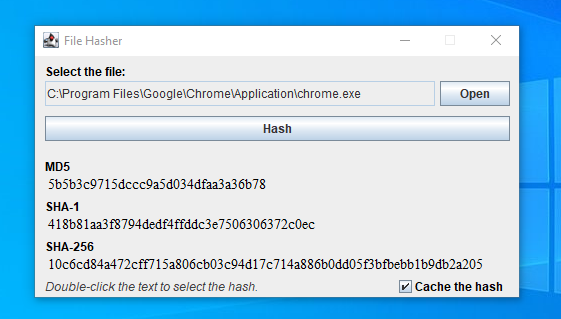
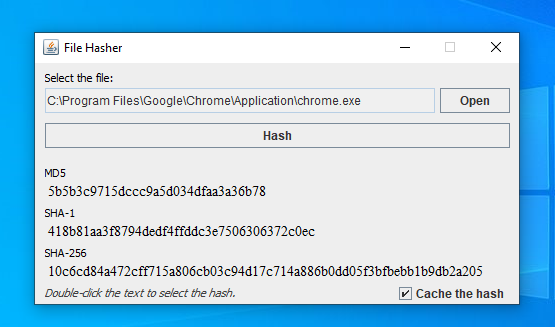
Changed window style to system default

diff --git a/src/Window.java b/src/Window.java
@@ -13,13 +13,15 @@ public class Window {
     private final JTextPane sha256Field = new JTextPane();
     private final JCheckBox cacheCheckBox = new JCheckBox("Cache the hash");
 
-    public Window() {
+    public Window() throws UnsupportedLookAndFeelException, ClassNotFoundException, InstantiationException, IllegalAccessException {
         frame.setLayout(null);
         frame.setVisible(true);
         frame.setResizable(false);
         frame.setSize(500, 280);
         frame.setLocationRelativeTo(null);
         frame.setDefaultCloseOperation(JFrame.EXIT_ON_CLOSE);
+
+        UIManager.setLookAndFeel(UIManager.getSystemLookAndFeelClassName());
 
         JLabel pathLabel = new JLabel("Select the file:");
         pathLabel.setForeground(Color.BLACK);

diff --git a/src/Main.java b/src/Main.java
@@ -6,7 +6,7 @@ import java.io.IOException;
 public class Main {
     private static final HashMap<String, String[]> cache = new HashMap<>();
 
-    public static void main(String[] args) {
+    public static void main(String[] args) throws UnsupportedLookAndFeelException, ClassNotFoundException, InstantiationException, IllegalAccessException {
         Window app = new Window();
 
         app.getOpenButton().addActionListener((l) -> {
